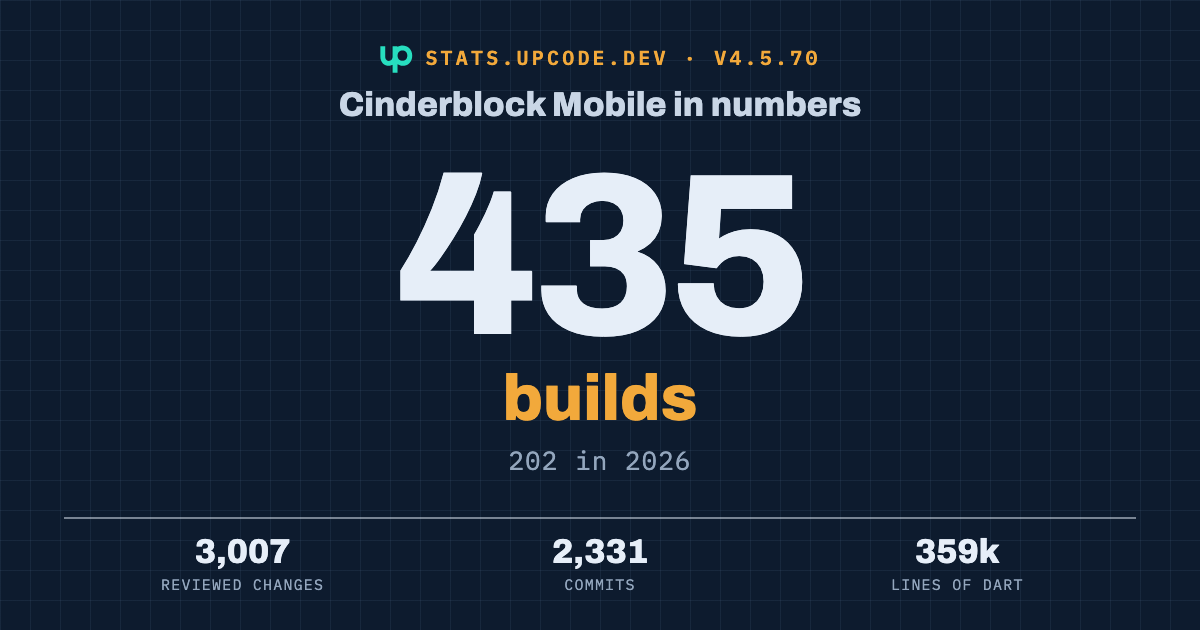
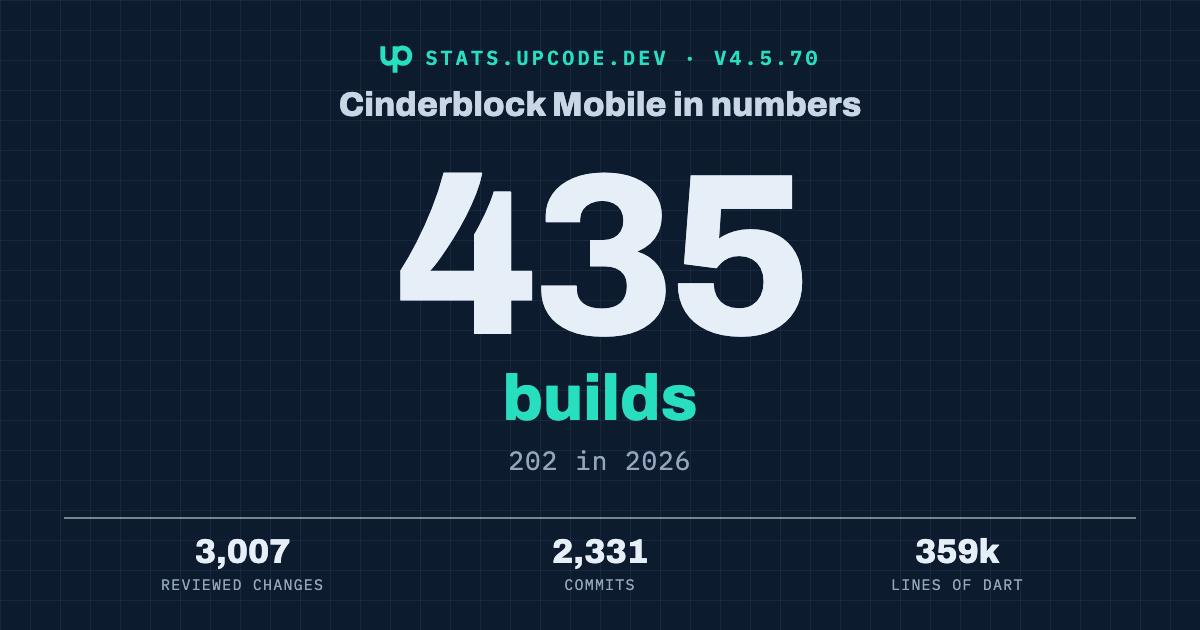
Use Upcode teal as the accent
The accent (eyebrows, section labels, the preview's key label) is now the
Upcode brand teal #27debf, matching the monogram and the old website's
theme-color; light mode uses #0b7d6a so small text keeps 4.6:1+ contrast.

Changed region(s): [[0.4008, 0.573, 0.5858, 0.6635], [0.37, 0.0603, 0.555, 0.1206], [0.5858, 0.0603, 0.6783, 0.1206]]

diff --git a/cinderblock/index.html b/cinderblock/index.html
@@ -10,7 +10,7 @@
     <meta property="og:url" content="https://stats.upcode.dev/cinderblock/" />
     <meta property="og:title" content="Cinderblock Mobile in numbers" />
     <meta property="og:description" content="3,007 reviewed changes (509 in 2026) · 435 builds (202 in 2026) · 2,331 commits · 359k lines of Dart · 34 offline-synced domains. Latest: v4.5.70." />
-    <meta property="og:image" content="https://stats.upcode.dev/cinderblock/og.png?v=41616ba5fb" />
+    <meta property="og:image" content="https://stats.upcode.dev/cinderblock/og.png?v=4b0e2bbfbb" />
     <meta property="og:image:width" content="1200" />
     <meta property="og:image:height" content="630" />
     <meta property="og:image:alt" content="Cinderblock Mobile in numbers: merged MRs, tagged builds, commits and Dart lines" />

diff --git a/src/style.css b/src/style.css
@@ -6,7 +6,8 @@
   --ink-muted: #5a6878;
   --rule: #d5dde6;
   --grid: rgba(40, 90, 150, 0.07);
-  --accent: #d98a00;
+  /* Upcode teal (#27debf); darker on light backgrounds so text stays readable. */
+  --accent: #0b7d6a;
   --series-1: #2f6db5;
   --series-2: #d98a00;
   --series-3: #3f8f6b;
@@ -26,7 +27,7 @@
     --ink-muted: #93a6bd;
     --rule: #26405f;
     --grid: rgba(150, 190, 240, 0.06);
-    --accent: #f2a93b;
+    --accent: #27debf;
     --series-1: #6ea8ec;
     --series-2: #f2a93b;
     --series-3: #6cc59a;
